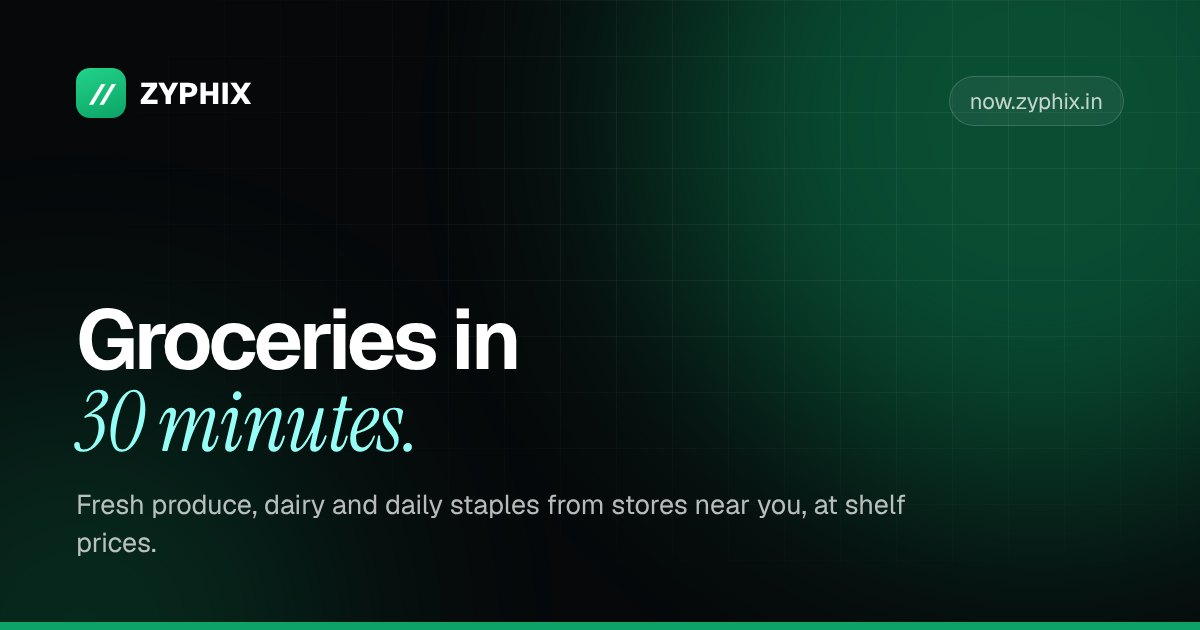
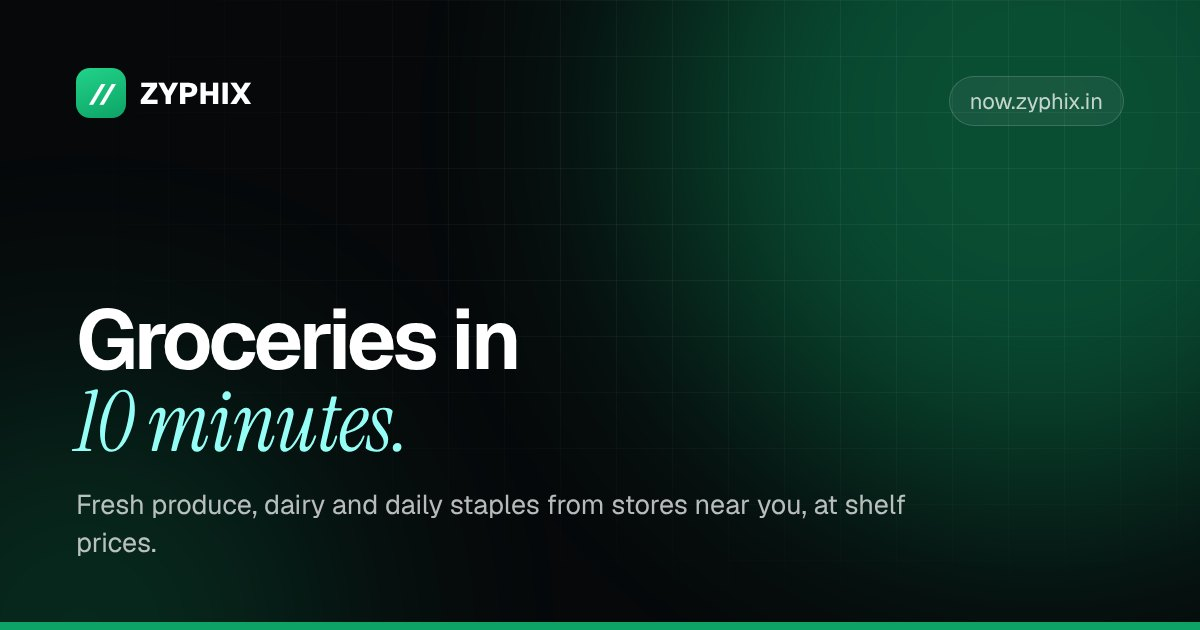
Grocery delivery promise: 30 minutes -> 10 minutes everywhere
Hero, product pages, cart, checkout copy, SEO titles/descriptions, help articles,
terms, about, investors, partner pages, app manifest, live route ETAs and the
Zyphix Now share image. Food ETAs, Book lateness credits and 30-day policies unchanged.

Claude-Session: https://claude.ai/code/session_01W4mrf6ryFLzB7JksuYsCE3

Changed region(s): [[0.0617, 0.6032, 0.3392, 0.7238]]

diff --git a/artifacts/zyphix/src/sites/support/articles.ts b/artifacts/zyphix/src/sites/support/articles.ts
@@ -1,7 +1,7 @@
 /* ────────────────────────────────────────────────────────────────────────────
    support.zyphix.in — help centre content. Typed so pages can filter, search
    and render consistently. Keep answers factual: policies below mirror what
-   the product pages promise (30-min delivery target, free delivery on bigger baskets,
+   the product pages promise (10-min delivery target, free delivery on bigger baskets,
    free cancellation windows, 7-day work guarantee on Book).
 ──────────────────────────────────────────────────────────────────────────── */
 
@@ -37,7 +37,7 @@ export type Article = {
 };
 
 export const TOPICS: Topic[] = [
-  { id: 'now', title: 'Zyphix Now orders', short: 'Now orders', blurb: 'Groceries and essentials in 30 minutes: tracking, delivery fees, missing items.', photo: 'grocery', product: { label: 'Open my Now orders', href: 'https://now.zyphix.in/account' } },
+  { id: 'now', title: 'Zyphix Now orders', short: 'Now orders', blurb: 'Groceries and essentials in 10 minutes: tracking, delivery fees, missing items.', photo: 'grocery', product: { label: 'Open my Now orders', href: 'https://now.zyphix.in/account' } },
   { id: 'eats', title: 'Zyphix Eats', short: 'Eats', blurb: 'Food orders from restaurants near you: late deliveries, wrong items, restaurant hours.', photo: 'restaurant', product: { label: 'Open Zyphix Eats', href: 'https://eats.zyphix.in' } },
   { id: 'book', title: 'Zyphix Book', short: 'Book', blurb: 'Home services from verified professionals: slots, rescheduling, the work guarantee.', photo: 'cleaning', product: { label: 'Open Zyphix Book', href: 'https://book.zyphix.in' } },
   { id: 'partners', title: 'Partners & payouts', short: 'Partners', blurb: 'Stores, restaurants, professionals and delivery partners: onboarding, verification, payouts.', photo: 'team', product: { label: 'Partner portal', href: 'https://partner.zyphix.in' } },
@@ -62,7 +62,7 @@ export const ARTICLES: Article[] = [
     body: [
       p('Every Zyphix Now order moves through four statuses: Confirmed, Packing, On the way and Delivered. You can watch it move in real time from your account.'),
       steps('Open accounts.zyphix.in (or the Orders tab in the app).', 'Tap the order at the top of the list; the newest order is always first.', 'The status bar shows the current step. Once a rider is assigned, their name and a live map appear below it.', 'Use "Call rider" if you need to share a gate code or landmark.'),
-      p('Our target is 30 minutes from confirmation. The promised time on the order page already accounts for the store\'s packing time and the distance to you.'),
+      p('Our target is 10 minutes from confirmation. The promised time on the order page already accounts for the store\'s packing time and the distance to you.'),
       note('If the page shows "Confirmed" for more than 10 minutes, the store has not yet accepted the order. You can cancel at no charge until it moves to Packing.'),
     ],
     related: ['late-delivery', 'missing-or-damaged-item'],
@@ -70,9 +70,9 @@ export const ARTICLES: Article[] = [
   {
     slug: 'late-delivery', topic: 'now', title: 'My order is late', updated: '2026-10-20',
     summary: 'What happens when an order runs past its promised time, and what you can do.',
-    keywords: ['late', 'delayed', 'delay', 'slow', '30 minutes'],
+    keywords: ['late', 'delayed', 'delay', 'slow', '10 minutes'],
     body: [
-      p('Most orders arrive within 30 minutes. Heavy rain, road closures and a store running short-staffed can push that out. When it does, the promised time on your order page updates and we send a notification.'),
+      p('Most orders arrive within 10 minutes. Heavy rain, road closures and a store running short-staffed can push that out. When it does, the promised time on your order page updates and we send a notification.'),
       h('If the order is more than 15 minutes past the promised time'),
       list('You can cancel from the order page without any charge, even if the rider has already picked it up.', 'If you keep the order, any delivery fee on it is refunded to your original payment method automatically within 24 hours.', 'Riders are never penalised for safe riding; we would rather an order be late than unsafe.'),
       h('If the status has not changed for a long time'),

diff --git a/artifacts/zyphix/src/pages/home/Faq.tsx b/artifacts/zyphix/src/pages/home/Faq.tsx
@@ -13,7 +13,7 @@ import { NOW_SITE, EATS_SITE, PARTNER_SITE, SUPPORT_SITE, Display } from './shar
 const FAQ = [
   { q: 'Where is Zyphix available?', a: <>We are rolling out neighbourhood by neighbourhood, onboarding stores, restaurants and professionals one area at a time. Set your location on <a href={NOW_SITE} className="font-semibold text-emerald-700">now.zyphix.in</a> to check if we deliver to you; if we are not on your street yet, join early access and we will email you the day we are.</> },
   { q: 'Are prices the same as in the store?', a: 'Yes. Partners list their own shelf and menu prices and we do not mark them up. There is no surge pricing and no hidden handling charge. Any delivery fee is shown at checkout before you pay, and bigger baskets ship free.' },
-  { q: 'How do you deliver in 30 minutes?', a: 'Every order is fulfilled by a business within a few kilometres of you and carried by a rider from the same area. Short distances and real inventory make the 30-minute target possible without dark stores.' },
+  { q: 'How do you deliver in 10 minutes?', a: 'Every order is fulfilled by a business within a few kilometres of you and carried by a rider from the same area. Short distances and real inventory make the 10-minute target possible without dark stores.' },
   { q: 'How do I pay?', a: 'Cards, UPI, net banking and popular wallets online. Cash on delivery is available on eligible orders and shown at checkout.' },
   { q: 'What if something is missing or wrong?', a: 'Report it from the order screen. Support verifies with the store and rider and refunds the affected items to your original payment method or Zyphix wallet.' },
   { q: 'How can my business join?', a: <>Apply at <a href={PARTNER_SITE} className="font-semibold text-emerald-700" target="_blank" rel="noopener noreferrer">partner.zyphix.in</a>. Listing is free and an onboarding manager calls you within two working days to take you live.</> },
@@ -73,7 +73,7 @@ export function StickyCta() {
       style={{ marginBottom: 'env(safe-area-inset-bottom)' }}>
       <div className="flex items-center gap-3">
         <div className="min-w-0 flex-1">
-          <p className="truncate text-[13.5px] font-semibold tracking-[-0.01em] text-white">Groceries in 30 min</p>
+          <p className="truncate text-[13.5px] font-semibold tracking-[-0.01em] text-white">Groceries in 10 min</p>
           <p className="truncate text-[11.5px] text-white/55">Shelf prices, no markup</p>
         </div>
         <Button href={NOW_SITE} sameTab size="sm" className="shrink-0">Order now <ArrowRight size={14} /></Button>

diff --git a/artifacts/zyphix/src/pages/ZyphixNow.tsx b/artifacts/zyphix/src/pages/ZyphixNow.tsx
@@ -34,7 +34,7 @@ const isDesktop = () => typeof window !== 'undefined' && window.matchMedia('(min
 const scrollOffset = () => (isDesktop() ? NAV_H + 16 : NAV_H + MOBILE_RAIL_H + 8);
 
 export function ZyphixNow() {
-  useSeo('Zyphix Now — Groceries delivered in 30 minutes', 'Fresh produce, dairy, snacks and daily staples from stores near you, delivered in about 30 minutes at shelf prices.');
+  useSeo('Zyphix Now — Groceries delivered in 10 minutes', 'Fresh produce, dairy, snacks and daily staples from stores near you, delivered in about 10 minutes at shelf prices.');
   const { products, categories: allCategories, loading: catalogLoading } = useCatalog();
   const { partners: stores } = usePartners('store');
   // Hide categories that have no products yet so the rail never shows empty entries.
@@ -451,7 +451,7 @@ export function ZyphixNow() {
               <IconTile className="h-9 w-9 rounded-lg"><ShoppingBag size={16} /></IconTile>
               <div className="min-w-0 leading-tight">
                 <p className="text-[13.5px] font-semibold">{totalItems} item{totalItems > 1 ? 's' : ''} · ₹{subtotal.toLocaleString('en-IN')}</p>
-                <p className="text-[12px] text-gray-500">Delivery in 30 min · Free above ₹149</p>
+                <p className="text-[12px] text-gray-500">Delivery in 10 min · Free above ₹149</p>
               </div>
             </div>
             <Button href="/now/cart" size="sm">View cart <ArrowRight size={14} /></Button>
@@ -488,7 +488,7 @@ function SectionHead({ title, sub, action }: { title: string; sub?: string; acti
 
 function Hero({ productCount, onSearch }: { productCount: string; onSearch: (q: string) => void }) {
   const chips: { icon: React.ReactNode; text: string }[] = [
-    { icon: <Clock size={13} />, text: 'Delivered in 30 min' },
+    { icon: <Clock size={13} />, text: 'Delivered in 10 min' },
     { icon: <Truck size={13} />, text: 'Free delivery on bigger baskets' },
     ...(productCount ? [{ icon: <Package size={13} />, text: `${productCount} products` }] : []),
     { icon: <MapPin size={13} />, text: 'Check if we deliver to you' },

diff --git a/artifacts/zyphix/src/pages/AppComingSoon.tsx b/artifacts/zyphix/src/pages/AppComingSoon.tsx
@@ -40,7 +40,7 @@ function useCountdown(target: number) {
 }
 
 const FEATURES = [
-  { Icon: Zap, t: '30-minute grocery delivery', d: 'Real shelves from stores near you, packed and moving in minutes.' },
+  { Icon: Zap, t: '10-minute grocery delivery', d: 'Real shelves from stores near you, packed and moving in minutes.' },
   { Icon: UtensilsCrossed, t: 'Food from local kitchens', d: 'Neighbourhood restaurants, cafés and cloud kitchens on fair commissions.' },
   { Icon: MapPin, t: 'Live order tracking', d: 'Follow your delivery partner from pickup to doorstep.' },
   { Icon: Tag, t: 'App-exclusive deals', d: 'Offers and launch-day perks only in the app.' },
@@ -64,7 +64,7 @@ function PhonePreview() {
           <div className="px-4 pb-4 pt-10 text-white" style={{ background: G }}>
             <div className="flex items-center justify-between">
               <span className="text-[16px] font-semibold tracking-[-0.02em]">Zyphix</span>
-              <span className="inline-flex items-center gap-1 rounded-full bg-white/20 px-2 py-0.5 text-[10px] font-bold"><Clock size={10} /> 30 min</span>
+              <span className="inline-flex items-center gap-1 rounded-full bg-white/20 px-2 py-0.5 text-[10px] font-bold"><Clock size={10} /> 10 min</span>
             </div>
             <div className="mt-3 rounded-xl bg-white px-3 py-2 text-[11px] font-medium text-gray-400">Search groceries &amp; food…</div>
           </div>
@@ -138,7 +138,7 @@ export function AppComingSoon() {
           height="min-h-[100svh]"
           kicker="Mobile app · Coming soon"
           parts={['The Zyphix app is coming to', { accent: 'iOS & Android.', green: true }]}
-          sub="Groceries in 30 minutes, food from local kitchens and trusted home services in one native app. Leave your email and we will tell you the moment it is live."
+          sub="Groceries in 10 minutes, food from local kitchens and trusted home services in one native app. Leave your email and we will tell you the moment it is live."
           aside={<PhonePreview />}
         >
           {/* Countdown (hidden once the target date has passed) */}

diff --git a/artifacts/zyphix/src/pages/Cart.tsx b/artifacts/zyphix/src/pages/Cart.tsx
@@ -58,7 +58,7 @@ export function Cart() {
       <div className="mx-auto w-full max-w-[1180px] pt-4 text-gray-900" style={{ fontFamily: FONT }}>
         <div className={`${card} px-6 py-14 text-center`}>
           <h1 className="text-[18px] font-semibold tracking-[-0.02em]">Your cart is empty</h1>
-          <p className="mt-1 text-[13px] text-gray-500">Groceries delivered in 30 minutes.</p>
+          <p className="mt-1 text-[13px] text-gray-500">Groceries delivered in 10 minutes.</p>
           <div className="mt-4"><Button href="/now" size="sm">Start shopping</Button></div>
         </div>
       </div>
@@ -74,7 +74,7 @@ export function Cart() {
     <div className="mx-auto w-full max-w-[1180px] pb-24 pt-4 text-gray-900" style={{ fontFamily: FONT }}>
       <div className="flex items-baseline gap-3">
         <h1 className="text-[24px] font-semibold tracking-[-0.03em] md:text-[28px]">Cart</h1>
-        <p className="text-[13px] text-gray-500">{totalItems} item{totalItems > 1 ? 's' : ''} · Delivery in 30 min</p>
+        <p className="text-[13px] text-gray-500">{totalItems} item{totalItems > 1 ? 's' : ''} · Delivery in 10 min</p>
       </div>
 
       <div className="mt-5 grid items-start gap-4 md:grid-cols-[1fr_340px] md:gap-6">
@@ -196,7 +196,7 @@ export function Cart() {
             <span>To pay</span><span className="text-[18px] tabular-nums tracking-[-0.02em]">₹{grand}</span>
           </div>
           {totalSavings > 0 && <p className="mt-1 text-[12.5px] font-medium text-emerald-700">You save ₹{totalSavings} on this order</p>}
-          <p className="mt-3 inline-flex items-center gap-1.5 text-[12px] text-gray-500"><Clock size={12} /> Delivery in 30 min</p>
+          <p className="mt-3 inline-flex items-center gap-1.5 text-[12px] text-gray-500"><Clock size={12} /> Delivery in 10 min</p>
           <Button onClick={() => navigate('/now/checkout')} className="mt-3 w-full justify-between">
             <span>Proceed to checkout</span><span className="inline-flex items-center gap-1">₹{grand} <ChevronRight size={15} /></span>
           </Button>

diff --git a/artifacts/zyphix/src/pages/ProductDetail.tsx b/artifacts/zyphix/src/pages/ProductDetail.tsx
@@ -20,7 +20,7 @@ export function ProductDetail() {
   const { products, categories } = useCatalog();
   const product = useMemo(() => products.find(p => p.id === params.id), [products, params.id]);
   useSeo(product ? `${product.name}${product.weight ? ` (${product.weight})` : ''} · Zyphix Now` : 'Product · Zyphix Now',
-    product ? `Order ${product.name} from stores near you on Zyphix Now, delivered in about 30 minutes.` : undefined);
+    product ? `Order ${product.name} from stores near you on Zyphix Now, delivered in about 10 minutes.` : undefined);
   const mainImage = useMemo(() => product ? productImageFor(product, categories, 'full') : null, [product, categories]);
   const related = useMemo(() => {
     if (!product) return [];
@@ -110,7 +110,7 @@ export function ProductDetail() {
           {/* delivery facts */}
           <div className="mt-5 grid grid-cols-3 gap-2">
             {[
-              { icon: <Clock size={14} />, t: '30 min', s: 'Delivery' },
+              { icon: <Clock size={14} />, t: '10 min', s: 'Delivery' },
               { icon: <Truck size={14} />, t: 'Free', s: 'Above ₹149' },
               { icon: <ShieldCheck size={14} />, t: 'Fresh', s: 'Quality checked' },
             ].map((f, i) => (
@@ -141,7 +141,7 @@ export function ProductDetail() {
           <div className="mt-6 rounded-2xl border border-gray-200 bg-white p-4 md:p-5">
             <p className="text-[14px] font-semibold">About this product</p>
             <p className="mt-1.5 text-[13px] leading-[1.6] text-gray-600">
-              {product.name} by {product.brand}{product.weight ? `, ${product.weight}` : ''}. Sourced daily from trusted local suppliers and delivered in about 30 minutes.
+              {product.name} by {product.brand}{product.weight ? `, ${product.weight}` : ''}. Sourced daily from trusted local suppliers and delivered in about 10 minutes.
             </p>
           </div>
 

diff --git a/artifacts/zyphix/src/pages/home/Hero.tsx b/artifacts/zyphix/src/pages/home/Hero.tsx
@@ -13,7 +13,7 @@ import { NOW_SITE, EATS_SITE, BOOK_SITE, Display } from './shared';
 ──────────────────────────────────────────────────────────────────────────── */
 
 const PRODUCTS = [
-  { name: 'Now', what: 'Groceries in 30 min', href: NOW_SITE, icon: <ShoppingBasket size={15} /> },
+  { name: 'Now', what: 'Groceries in 10 min', href: NOW_SITE, icon: <ShoppingBasket size={15} /> },
   { name: 'Eats', what: 'Food from local kitchens', href: EATS_SITE, icon: <UtensilsCrossed size={15} /> },
   { name: 'Book', what: 'Home services', href: BOOK_SITE, icon: <Wrench size={15} /> },
 ];
@@ -48,7 +48,7 @@ export function Hero() {
           <Kicker light>The SuperLocal app</Kicker>
         </motion.div>
         <SplitHeadline
-          parts={['Your neighbourhood,', { accent: 'delivered', green: true }, 'in 30 minutes.']}
+          parts={['Your neighbourhood,', { accent: 'delivered', green: true }, 'in 10 minutes.']}
           delay={0.1}
           className="max-w-[16ch] text-balance text-[46px] font-semibold leading-[0.98] tracking-[-0.045em] text-white sm:text-[64px] md:max-w-none md:text-[78px]"
         />
@@ -88,7 +88,7 @@ export function Hero() {
 
 /* ── Intro band + giant marquee ─────────────────────────────────────────── */
 const FACTS = [
-  ['30 min', 'grocery delivery promise'],
+  ['10 min', 'grocery delivery promise'],
   ['Free', 'delivery on bigger baskets'],
   ['1 login', 'for Now, Eats and Book'],
 ];

diff --git a/artifacts/zyphix/src/pages/now/bands.tsx b/artifacts/zyphix/src/pages/now/bands.tsx
@@ -4,7 +4,7 @@
  *
  *  HeroLiveOrder   floating live order card for the desktop hero
  *  MarketBand      "Fresh from the market" ClipWall (vegMarket, fruit, packing, merchant, spices)
- *  TrackBand       "Track every order live" RouteMap + the 30-minute promise
+ *  TrackBand       "Track every order live" RouteMap + the 10-minute promise
  *  useRotatingWord rotating search placeholder (milk, atta, bananas…)
  */
 import React, { useEffect, useState } from 'react';
@@ -87,7 +87,7 @@ export function TrackBand() {
     <section aria-label="Track every order live" className="overflow-hidden rounded-3xl border border-gray-200 bg-white">
       <div className="grid items-stretch md:grid-cols-[1fr_1.15fr]">
         <Reveal y={16} amount={0.25} className="flex flex-col justify-center p-6 md:p-10">
-          <p className="mb-3 text-[12px] font-semibold uppercase tracking-[0.14em] text-emerald-700">The 30-minute promise</p>
+          <p className="mb-3 text-[12px] font-semibold uppercase tracking-[0.14em] text-emerald-700">The 10-minute promise</p>
           <h2 className={`${DISPLAY} max-w-[16ch] text-[28px] leading-[1.05] text-gray-900 md:text-[40px]`}>
             Track every order <Accent green>live</Accent>.
           </h2>
@@ -104,7 +104,7 @@ export function TrackBand() {
           </ol>
         </Reveal>
         <div className="p-3 pt-0 md:p-3 md:pl-0">
-          <RouteMap dark className="aspect-[56/38] md:aspect-auto md:h-full md:min-h-[420px]" minutes={30} />
+          <RouteMap dark className="aspect-[56/38] md:aspect-auto md:h-full md:min-h-[420px]" minutes={9} />
         </div>
       </div>
     </section>

diff --git a/artifacts/zyphix/shared/seo.ts b/artifacts/zyphix/shared/seo.ts
@@ -52,7 +52,7 @@ const NOINDEX = { noindex: true } as const;
 
 const DESC = {
   main: 'Zyphix is the SuperLocal app: groceries in minutes, food from local kitchens and verified home services, from the businesses already in your neighbourhood.',
-  now: 'Fresh produce, dairy, snacks and daily staples from stores near you, delivered in about 30 minutes at shelf prices.',
+  now: 'Fresh produce, dairy, snacks and daily staples from stores near you, delivered in about 10 minutes at shelf prices.',
   eats: 'Restaurants, cafés, dhabas and home kitchens near you, cooked to order at menu prices and tracked to your door.',
   book: 'Plumbers, electricians, cleaners and more from your neighbourhood. ID-verified pros, price shown before you confirm.',
 };
@@ -78,7 +78,7 @@ const STATIC: Record<SiteKey, Page[]> = {
     P('/checkout', 'Checkout · Zyphix Now', 'Check out your Zyphix Now order.', NOINDEX),
   ],
   now: [
-    P('/', 'Zyphix Now — Groceries delivered in 30 minutes', DESC.now, { changefreq: 'daily', priority: 0.9 }),
+    P('/', 'Zyphix Now — Groceries delivered in 10 minutes', DESC.now, { changefreq: 'daily', priority: 0.9 }),
     P('/cart', 'Your cart · Zyphix Now', 'Your Zyphix Now cart.', NOINDEX),
     P('/checkout', 'Checkout · Zyphix Now', 'Check out your Zyphix Now order.', NOINDEX),
     P('/wallet', 'Wallet · Zyphix', 'Your Zyphix wallet balance and refunds.', NOINDEX),

diff --git a/artifacts/zyphix/src/pages/Investors.tsx b/artifacts/zyphix/src/pages/Investors.tsx
@@ -32,7 +32,7 @@ const MARKET = [
 ];
 
 const PRODUCTS = [
-  { icon: <Store size={22} />, photo: landscape('produce', 0), name: 'Zyphix Now', tag: 'Groceries & essentials', d: 'Live inventory and shelf prices from stores near the customer, delivered within an under-30-minute target.', href: '/now' },
+  { icon: <Store size={22} />, photo: landscape('produce', 0), name: 'Zyphix Now', tag: 'Groceries & essentials', d: 'Live inventory and shelf prices from stores near the customer, delivered within an under-10-minute target.', href: '/now' },
   { icon: <UtensilsCrossed size={22} />, photo: landscape('chef', 0), name: 'Zyphix Eats', tag: 'Food delivery', d: 'Neighbourhood restaurants, cafés and cloud kitchens on fair, flat commissions.', href: '/eats' },
   { icon: <Wrench size={22} />, photo: landscape('electrician', 0), name: 'Zyphix Book', tag: 'Home services', d: 'Verified local electricians, plumbers, cleaners and more, booked and paid transparently in-app.', href: '/book' },
 ];

diff --git a/artifacts/zyphix/src/pages/home/Products.tsx b/artifacts/zyphix/src/pages/home/Products.tsx
@@ -23,10 +23,10 @@ function Pills({ items }: { items: string[] }) {
 const CHAPTERS: Chapter[] = [
   {
     kicker: '01 · Zyphix Now · Groceries',
-    title: <>Your corner store, at your door in <Accent green>30 minutes</Accent>.</>,
+    title: <>Your corner store, at your door in <Accent green>10 minutes</Accent>.</>,
     body: `Real shelves from stores near you, at shelf prices. ${PRODUCT_COUNT} products, packed the moment you order and tracked to your gate.`,
     clip: VIDEOS.packing,
-    extra: <><Pills items={['30-min promise', 'Free delivery on bigger baskets', 'Cash on delivery']} /><div className="mt-6"><ArrowLink href={NOW_SITE} dark>Shop on now.zyphix.in</ArrowLink></div></>,
+    extra: <><Pills items={['10-min promise', 'Free delivery on bigger baskets', 'Cash on delivery']} /><div className="mt-6"><ArrowLink href={NOW_SITE} dark>Shop on now.zyphix.in</ArrowLink></div></>,
   },
   {
     kicker: '02 · Zyphix Eats · Food',

diff --git a/artifacts/zyphix/src/pages/Terms.tsx b/artifacts/zyphix/src/pages/Terms.tsx
@@ -83,7 +83,7 @@ export function Terms() {
           <Section id="services" title="3. Our Services">
             <p>Zyphix provides a technology platform connecting users with:</p>
             <ul>
-              <li><strong>ZyphixNow:</strong> Grocery and essential items delivered in approximately 30 minutes from partner stores.</li>
+              <li><strong>ZyphixNow:</strong> Grocery and essential items delivered in approximately 10 minutes from partner stores.</li>
               <li><strong>ZyphixEats:</strong> Food delivery from restaurants, dhabas, and cloud kitchens.</li>
             </ul>
             <p>Zyphix is a marketplace platform. We are not the seller of goods nor the employer of service professionals. Responsibility for product quality and service lies with the respective partner store or professional.</p>
